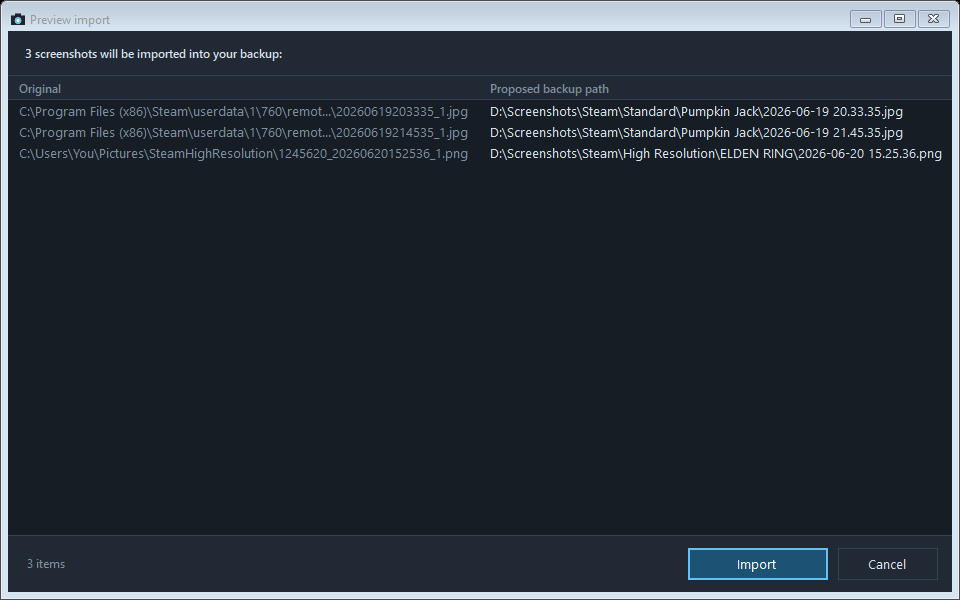
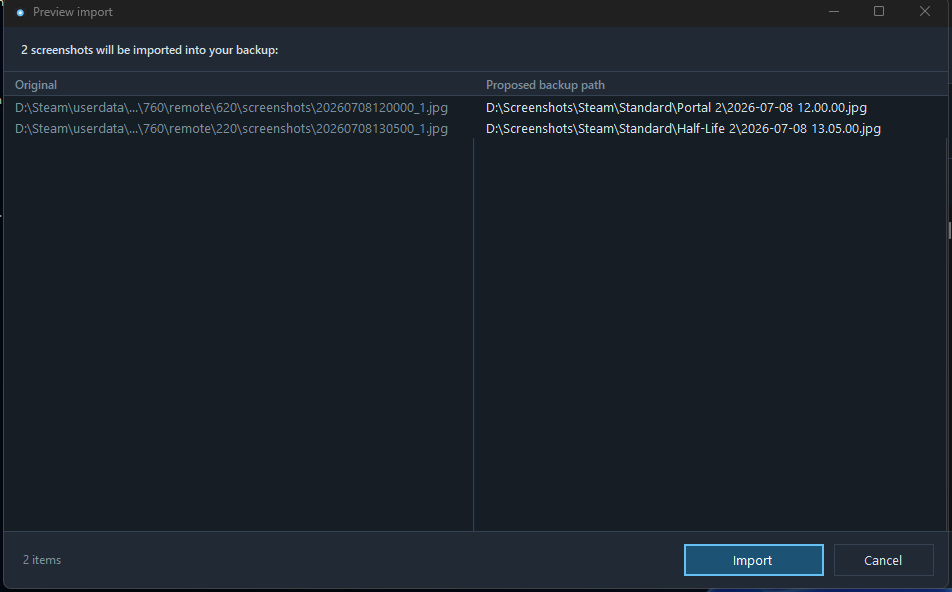
Update README and screenshots for v3.5.0
- Settings screenshots split into General/Backup configuration tabs; added
  Game Names and the new targeted-deletion window; regenerated main-window,
  tray-menu, and preview with a real screen capture (the previous
  DrawToBitmap-based screenshots missed DWM dark title bars and native dark
  scrollbars, rendering both as light/white).
- Documented the Utilities menu, retroactive app-id tracking, the
  markdown-index-disable cleanup prompt, and the new nav/tray labels.

Changed region(s): [[0.0, 0.0, 1.0, 1.0]]

diff --git a/README.md b/README.md
@@ -32,11 +32,22 @@ Steam Screenshots/
 *The main window — total games and screenshots backed up, per-session counters, and a live activity feed you can filter by backups, restores, deletions, warnings, or info.*
 
 <p align="center">
-  <img src="docs/img/settings.png" alt="Settings window" width="49%">
-  <img src="docs/img/tray-menu.png" alt="Right-click tray menu" width="34%">
+  <img src="docs/img/settings-general.png" alt="Settings window, General tab" width="49%">
+  <img src="docs/img/settings-backup.png" alt="Settings window, Backup configuration tab" width="49%">
 </p>
 
-*Left: Settings — backup folder, screenshot types, a manual high-resolution folder, folder layout, theme, popup notifications, startup, deleted-file protection, and the dangerous "delete originals after import" option. Right: the right-click tray menu (left-clicking the icon toggles the window).*
+*Settings is split across two tabs so the window never needs a scrollbar. Left: General — theme, notifications, startup, the Markdown index and preview-before-import toggles, and deleted-file protection. Right: Backup configuration — backup folder, screenshot types, a manual high-resolution folder, folder layout, and the dangerous "delete originals after import" option.*
+
+<p align="center">
+  <img src="docs/img/tray-menu.png" alt="Right-click tray menu" width="34%">
+  <img src="docs/img/game-names.png" alt="Game names window" width="49%">
+</p>
+
+*Left: the right-click tray menu (left-clicking the icon toggles the window). Right: Game names — fix delisted or non-Steam games by hand, or open the underlying tracking file directly.*
+
+![The Utilities menu's targeted deletion window: a checkbox tree by backup type, game, and file](docs/img/targeted-delete.png)
+
+*Utilities → Delete specific files/folders — pick exactly which backup files to remove from a checkbox tree (checking a type or game folder selects everything under it), with every deletion requiring a file-count-and-size confirmation before anything goes to the Recycle Bin.*
 
 ![The installer's task selection page](docs/img/installer.png)
 
@@ -61,8 +72,8 @@ Steam Screenshots/
 - **Self-healing backup** — delete a file (or a whole game folder) from the backup
   and the app notices and logs it. With automatic restore on (the default),
   anything still in Steam is copied straight back. Prefer to stay in control? Turn
-  it off and use **Re-sync missing** to review everything in Steam that isn't in
-  your backup — grouped by game — and restore only what you pick.
+  it off and use **Re-Sync** to review everything in Steam that isn't in your
+  backup — grouped by game — and restore only what you pick.
 - **Searchable metadata** — the game name is injected into each backup copy as
   standard Windows-readable properties (JPEG EXIF Title/Subject, PNG XMP) without
   re-encoding a single pixel or changing the file's timestamps, so it shows up as
@@ -72,7 +83,18 @@ Steam Screenshots/
   and personal knowledge bases.
 - **Markdown index** — optionally maintain a `_Screenshot_Log.md` in each folder
   that embeds every screenshot under per-day headers, ready to drop into Obsidian
-  or any markdown vault. Can be generated retroactively for existing folders.
+  or any markdown vault. Can be generated retroactively for existing folders, and
+  turning it back off offers to clean up the files it left behind.
+- **Retroactive game-name tracking** — every backup run retries name resolution
+  for any folder that previously fell back to a placeholder name like
+  `AppID_<id>`, so games that couldn't be identified the first time (not yet
+  installed, a shortcut added later, etc.) get picked up automatically as soon
+  as they can be.
+- **Utilities menu** — one-click bulk cleanup (standard backups, high-resolution
+  backups, Markdown indexes, already-imported originals, application logs) plus a
+  granular deletion window with a checkbox tree by backup type, game, and file.
+  Every deletion — bulk or targeted — shows the exact file count and total size
+  before anything is sent to the Recycle Bin.
 - **Preview before importing** — optionally review a dry-run list of *Original →
   Proposed backup path* before batch imports and layout reorganizations. Real-time
   captures during play are never interrupted.
@@ -121,24 +143,36 @@ Uninstall option cleans up after itself.
 
 - **Left-click** the tray icon to toggle the main window (show or hide it):
   statistics, a live activity feed (backups, restores, deletions, warnings — all
-  filterable), and every action as a button. Double-click a backup entry to reveal
-  the file in Explorer. The current version is shown in the window's bottom corner.
-- **Right-click** the tray icon for the quick menu: Open, Back up now, Re-sync
-  missing screenshots, Open backup folder, Pause watching, Start with Windows,
-  Settings, Uninstall, Exit.
-- **Re-sync missing** lists every screenshot in Steam that isn't in your backup,
-  grouped by game, with checkboxes so you can restore all of them or just a few.
-- **Settings** covers the backup folder (with optional migration of existing
-  files), screenshot types (turning one off offers to Recycle-Bin its existing
-  backups), a manual high-resolution folder for when it can't be auto-detected,
-  folder layout (with optional in-place reorganization), a Markdown index and a
-  preview-before-import toggle, theme, popup notifications, autostart, whether
-  deleted backup files are restored automatically, and a dangerous *Delete
-  originals after import* option (with a double confirmation and an offer to apply
-  it to already-imported screenshots). Enabling the Markdown index also offers to
-  generate it for your existing folders.
-- **Game names** lets you fix delisted or non-Steam games without touching any
-  JSON by hand.
+  filterable), and every action as a button — **Backup Now**, **Open Backup
+  Folder**, **Re-Sync**, **Pause Monitoring**, **Settings**, **Game Names**, and
+  **Utilities**. Double-click a backup entry to reveal the file in Explorer. The
+  current version is shown in the window's bottom corner.
+- **Right-click** the tray icon for the quick menu: Open, Backup Now, Re-Sync,
+  Open Backup Folder, Game Names, Pause Monitoring, Start with Windows, Settings,
+  Uninstall, Exit.
+- **Re-Sync** lists every screenshot in Steam that isn't in your backup, grouped
+  by game, with checkboxes so you can restore all of them or just a few.
+- **Settings** is split across two tabs so the window never needs a scrollbar.
+  *General* covers theme, popup notifications, autostart, the Markdown index and
+  preview-before-import toggles, and whether deleted backup files are restored
+  automatically. *Backup configuration* covers the backup folder (with optional
+  migration of existing files), screenshot types (turning one off offers to
+  Recycle-Bin its existing backups), a manual high-resolution folder for when it
+  can't be auto-detected, folder layout (with optional in-place reorganization),
+  and a dangerous *Delete originals after import* option (with a double
+  confirmation and an offer to apply it to already-imported screenshots).
+  Toggling the Markdown index either way offers to generate or clean up the
+  `_Screenshot_Log.md` files for your existing folders.
+- **Game Names** lets you fix delisted or non-Steam games without touching any
+  JSON by hand, or open the underlying tracking file directly in your default
+  editor. Every backup run also retries name resolution for games it couldn't
+  identify last time, so folders named `AppID_<id>` get picked up automatically
+  once they can be resolved.
+- **Utilities** covers one-click bulk cleanup (standard backups, high-resolution
+  backups, Markdown indexes, already-imported originals, application logs) plus
+  **Delete specific files/folders**, a checkbox tree by backup type, game, and
+  file for granular deletion. Every deletion here shows the exact file count and
+  total size before anything is sent to the Recycle Bin.
 
 ### High-resolution screenshots
 
@@ -243,8 +277,10 @@ project is to be completely transparent about what it does behind the scenes.**
   removed unless you explicitly enable the dangerous *Delete originals after import*
   option — and even then, deletions go to the **Windows Recycle Bin**, never a
   permanent wipe.
-- Deleting backups (e.g. when you turn a screenshot type off) also goes to the
-  Recycle Bin, and is always something you confirm first.
+- Deleting backups — whether from turning a screenshot type off, the Utilities
+  menu's bulk actions, or the targeted deletion window — always goes to the
+  Recycle Bin, and always shows the exact file count and total size before you
+  confirm.
 - No telemetry, no accounts, no network calls except optional Steam store lookups
   to resolve game names (cached locally, one lookup per game, ever).
 - The full source is here. Nothing about how your files are handled is hidden — if